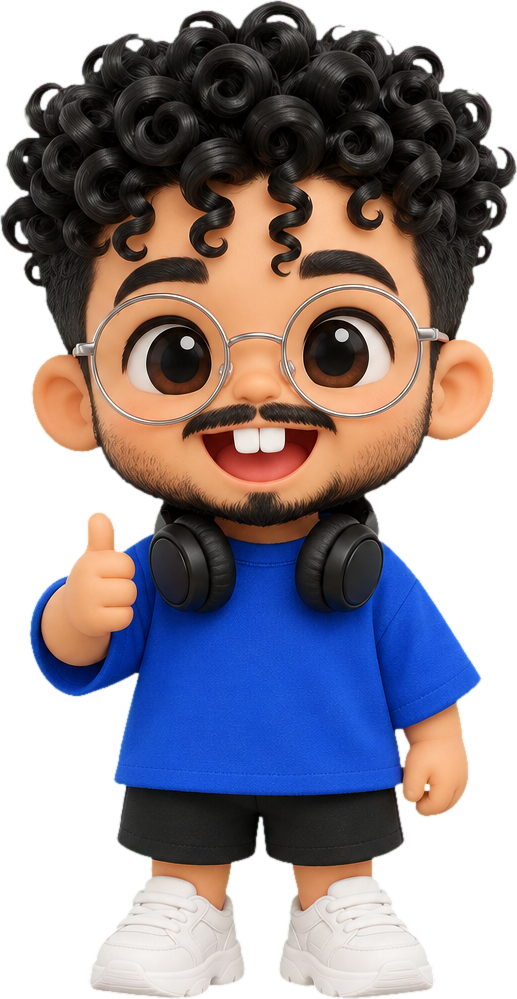
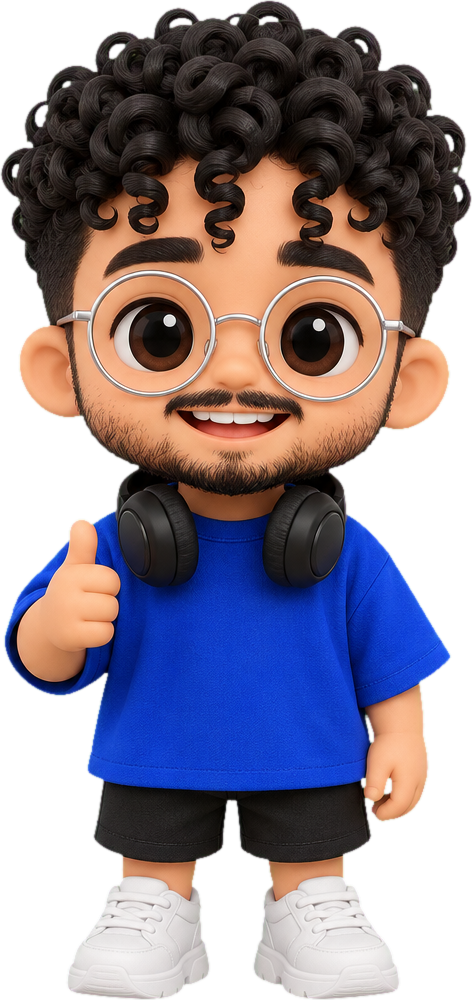
Diminui os dentes da frente do Cacau
Claude-Session: https://claude.ai/code/session_019N354in63g1zD5HF5LCsMh

diff --git a/mascote/cacau.html b/mascote/cacau.html
@@ -180,7 +180,7 @@
 
 <header class="hero">
   <h1 class="hero-nome" aria-label="Cacau">Cacau</h1>
-  <img class="hero-boneco" src="renders/cacau-hero-recorte.png" width="517" height="999"
+  <img class="hero-boneco" src="renders/cacau-hero-recorte.png" width="472" height="1000"
        alt="Cacau como boneco de vinil: cabelo cacheado, óculos redondos, dentinhos da frente à mostra, fone no pescoço, camiseta azul, fazendo joinha">
   <div class="hero-legenda">
     <span>Da mesma coleção do Wez</span>
@@ -197,7 +197,7 @@
         <ul class="tracos">
           <li style="--cor: var(--cabelo)"><div><strong>Cachos em molinha</strong><span>Volume no topo e alguns caracóis caindo na testa.</span></div></li>
           <li style="--cor: var(--oculos)"><div><strong>Óculos redondos</strong><span>Aro fino de metal prateado, lentes bem redondas.</span></div></li>
-          <li style="--cor: var(--tenis)"><div><strong>Dentinhos da frente</strong><span>Os dois dentes de cima aparecem em todo sorriso.</span></div></li>
+          <li style="--cor: var(--tenis)"><div><strong>Dentinhos da frente</strong><span>Os dois de cima, um tiquinho maiores, aparecem no sorriso.</span></div></li>
           <li style="--cor: var(--barba)"><div><strong>Bigode e barba curta</strong><span>Mais marcada no queixo, rala nas bochechas.</span></div></li>
           <li style="--cor: var(--fone)"><div><strong>Fone no pescoço</strong><span>Headphone preto, sempre a postos.</span></div></li>
           <li style="--cor: var(--azul)"><div><strong>Camiseta azul-royal</strong><span>Larguinha, com bermuda preta e tênis branco.</span></div></li>
@@ -255,7 +255,7 @@
       <div class="chao"></div>
       <div class="andador" id="andador">
         <div class="sombra"></div>
-        <img src="renders/cacau-andando-recorte.png" width="508" height="977" alt="Cacau andando">
+        <img src="renders/cacau-andando-recorte.png" width="496" height="978" alt="Cacau andando">
       </div>
     </div>
   </section>
